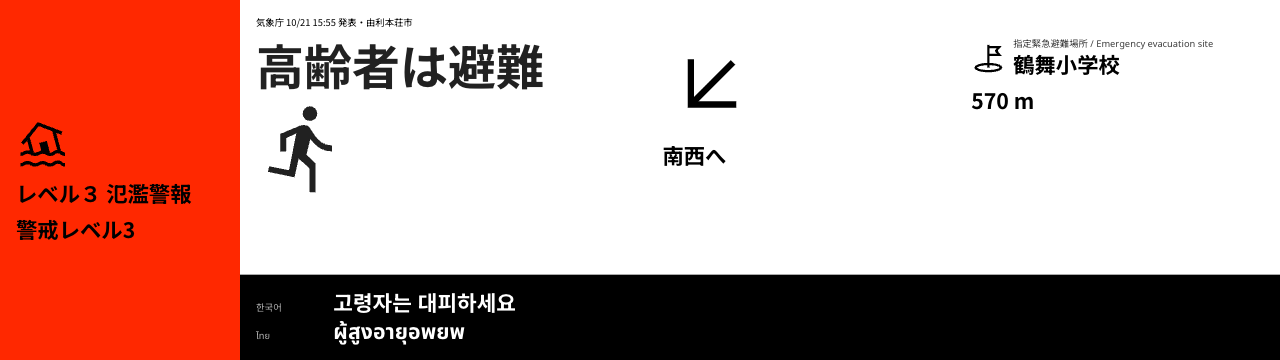
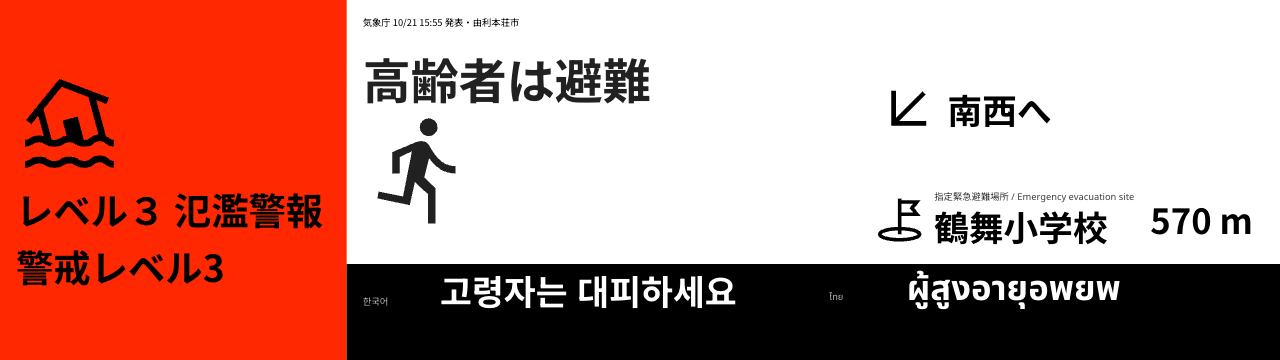
feat(app): blocks read as units, pictograms grow, 32:9 is drawn for its viewing distance
Following the owner's review of the measured layouts:
- Space between information blocks is one guide-text height (64), inside a
  block 16; direction is one block on every shape (arrow, then its words 16
  apart). A dropped cell's row and the gap before it collapse, so the space
  returns to the cells that remain.
- 32:9 hangs above walkways and is read from 8 to 15 m: its guide text is 104
  px (8 m by the same distance / 120 rule), the headline 112. The band is 1040
  wide with a 320 pictogram (75% of its height used, was 42%); direction and
  shelter stack in the right column; the language band shows its pair side by
  side; the action pictogram is 352.
- 9:16 action pictogram 300; 16:9 184 (the larger gaps took the rest); pillar
  body may reach 2.4 m so the gaps fit under the 800 hero pictogram.

16 bulletins x (5 shapes + 15 aspects) render with no overflow and no missing
required cell. docs/layout-tuning.png summarises the 32:9 and 9:16 changes.

diff --git a/app/layout/templates.ts b/app/layout/templates.ts
@@ -3,7 +3,8 @@ import { PILLAR } from './shapes'
 import { SHELTER_PICTOGRAM_PX } from './typography'
 
 const M = 48
-const G = 24
+// Space between information blocks is at least one guide-text height (64), so each block reads as a unit.
+const G = 64
 const BAND = 176
 // The source line is only the bulletin time and the municipality, so it sits close to the foot.
 const SOURCE_GAP = 8
@@ -12,7 +13,7 @@ export const STACKED_BAND_MIN_PX = 200
 
 const LANDSCAPE: ShapeLayout = {
   id: 'split',
-  columns: [M, '5fr', M, '4fr', M],
+  columns: [M, '5fr', G, '4fr', M],
   rows: [BAND, M, '1fr', G, '1fr', G, 'auto', SOURCE_GAP, 'auto', FOOT],
   areas: [
     'headline headline headline headline headline',
@@ -27,7 +28,7 @@ const LANDSCAPE: ShapeLayout = {
     '. . . . .',
   ],
   required: ['headline', 'action', 'direction', 'shelter', 'languages', 'source'],
-  pictogramPx: { headline: 112, action: 192, direction: 192, shelter: SHELTER_PICTOGRAM_PX },
+  pictogramPx: { headline: 112, action: 184, direction: 224, shelter: SHELTER_PICTOGRAM_PX },
 }
 
 const PORTRAIT: ShapeLayout = {
@@ -49,30 +50,42 @@ const PORTRAIT: ShapeLayout = {
     '. . .',
   ],
   required: ['headline', 'action', 'direction', 'shelter', 'languages', 'source'],
-  pictogramPx: { headline: 112, action: 256, direction: 192, shelter: SHELTER_PICTOGRAM_PX },
+  pictogramPx: { headline: 112, action: 300, direction: 224, shelter: SHELTER_PICTOGRAM_PX },
 }
+
+// 32:9 hangs above walkways and is read from 8 to 15 m, so its guide text follows the 8 m distance
+// (8000 / 120 mm at the 55" pitch ≈ 104 px) instead of the 5 m used by panels at eye level.
+const RIBBON_BAND = 1040
+const RIBBON_LANGUAGES = 288
+const RIBBON_TYPE = 1.625
+const RIBBON_HEADLINE_TYPE = 1.75
+const RIBBON_SCALE: Partial<Record<Role, number>> = { headline: RIBBON_HEADLINE_TYPE, direction: RIBBON_TYPE, shelter: RIBBON_TYPE, languages: RIBBON_TYPE }
 
 const RIBBON: ShapeLayout = {
   id: 'columns',
-  columns: [720, M, '4fr', M, '3fr', M, '3fr', M],
-  rows: [M, 'auto', G, '1fr', M, 256],
+  columns: [RIBBON_BAND, M, '5fr', G, '4fr', M],
+  rows: [M, 'auto', G, '1fr', G, 'auto', M, RIBBON_LANGUAGES],
   areas: [
-    'headline . . . . . . .',
-    'headline . source source source source source .',
-    'headline . . . . . . .',
-    'headline . action . direction . shelter .',
-    'headline . . . . . . .',
-    'headline languages languages languages languages languages languages languages',
+    'headline . . . . .',
+    'headline . source source source .',
+    'headline . . . . .',
+    'headline . action . direction .',
+    'headline . action . . .',
+    'headline . action . shelter .',
+    'headline . . . . .',
+    'headline languages languages languages languages languages',
   ],
   required: ['headline', 'action', 'direction', 'languages', 'source'],
-  pictogramPx: { headline: 160, action: 288, direction: 288, shelter: SHELTER_PICTOGRAM_PX },
+  pictogramPx: { headline: 320, action: 352, direction: 208, shelter: 160 },
   darkBand: ['languages'],
+  inline: ['shelter'],
+  typeScale: RIBBON_SCALE,
 }
 
 const RIBBON_WIDE_DIRECTION: ShapeLayout = {
   id: 'wide-direction',
-  columns: [720, M, '4fr', M, '6fr', M],
-  rows: [M, 'auto', G, '1fr', M, 256],
+  columns: [RIBBON_BAND, M, '4fr', G, '6fr', M],
+  rows: [M, 'auto', G, '1fr', M, RIBBON_LANGUAGES],
   areas: [
     'headline . . . . .',
     'headline . source source source .',
@@ -82,9 +95,10 @@ const RIBBON_WIDE_DIRECTION: ShapeLayout = {
     'headline shelter shelter languages languages languages',
   ],
   required: ['headline', 'action', 'direction', 'languages', 'source'],
-  pictogramPx: { headline: 160, action: 288, direction: 320, shelter: SHELTER_PICTOGRAM_PX },
+  pictogramPx: { headline: 320, action: 240, direction: 320, shelter: 160 },
   darkBand: ['shelter', 'languages'],
-  inline: ['direction', 'shelter'],
+  inline: ['shelter'],
+  typeScale: RIBBON_SCALE,
 }
 
 const SQUARE: ShapeLayout = {
@@ -135,8 +149,8 @@ const CLEAR_STACK: ShapeLayout = {
 
 const CLEAR_RIBBON: ShapeLayout = {
   id: 'clear-columns',
-  columns: [720, M, '1fr', M],
-  rows: [M, 'auto', G, '1fr', M, 256],
+  columns: [RIBBON_BAND, M, '1fr', M],
+  rows: [M, 'auto', G, '1fr', M, RIBBON_LANGUAGES],
   areas: [
     'headline . . .',
     'headline . source .',
@@ -146,8 +160,9 @@ const CLEAR_RIBBON: ShapeLayout = {
     'headline languages languages languages',
   ],
   required: ['headline', 'action', 'languages', 'source'],
-  pictogramPx: { headline: 160, action: 288 },
+  pictogramPx: { headline: 320, action: 288 },
   darkBand: ['languages'],
+  typeScale: RIBBON_SCALE,
 }
 
 const CLEAR_SQUARE: ShapeLayout = {
@@ -161,7 +176,7 @@ const CLEAR_SQUARE: ShapeLayout = {
 // screen drops shelter and direction and gives the whole body to the action.
 const SECURE_LANDSCAPE: ShapeLayout = { ...CLEAR_STACK, id: 'secure-stack', pictogramPx: { headline: 112, action: 320 } }
 const SECURE_PORTRAIT: ShapeLayout = { ...CLEAR_STACK, id: 'secure-stack', pictogramPx: { headline: 112, action: 480 } }
-const SECURE_RIBBON: ShapeLayout = { ...CLEAR_RIBBON, id: 'secure-columns', pictogramPx: { headline: 160, action: 384 } }
+const SECURE_RIBBON: ShapeLayout = { ...CLEAR_RIBBON, id: 'secure-columns', pictogramPx: { headline: 320, action: 384 } }
 const SECURE_SQUARE: ShapeLayout = { ...CLEAR_SQUARE, id: 'secure-square', pictogramPx: { headline: 112, action: 240 } }
 
 // 9:16 and 1:1 put the level label under the headline: the band is at least STACKED_BAND_MIN_PX
@@ -201,7 +216,7 @@ export const TEMPLATES: Partial<Record<TemplateId, TemplateDef>> = {
 // with the source runs round the foot of the column (0.40–0.75 m), and the top band and one large
 // action pictogram take the upper column. Rows are in design px, so metres are divided by the face scale.
 const PILLAR_EYE_LOW_M = 1.0
-const PILLAR_EYE_HIGH_M = 2.2
+const PILLAR_EYE_HIGH_M = 2.4
 const PILLAR_FOOT_BAND_TOP_M = 0.75
 const PILLAR_HERO_PX = 800
 const PILLAR_BODY_ORDER: Role[] = ['action', 'languages', 'direction', 'shelter']

diff --git a/app/layout/fit.ts b/app/layout/fit.ts
@@ -46,3 +46,22 @@ export function gridCss(layout: ShapeLayout) {
     gridTemplateAreas: layout.areas.map((row) => `"${row}"`).join(' '),
   }
 }
+
+// A dropped cell leaves an empty row and the block gap before it; both go, so the space returns to the
+// cells that remain. Names that also sit in other rows (a band or an action spanning rows) count as empty.
+export function collapseAbsent(layout: ShapeLayout, present: ReadonlySet<string>): ShapeLayout {
+  const rows = layout.areas.map((row) => row.split(/\s+/).map((name) => (name === '.' || present.has(name) ? name : '.')))
+  const spans = (name: string, except: Set<number>) => rows.some((names, i) => !except.has(i) && names.includes(name))
+  const removed = new Set<number>()
+  const isEmpty = (i: number) => rows[i]!.every((name) => name === '.' || spans(name, new Set([...removed, i])))
+  layout.areas.forEach((row, i) => {
+    const hadAbsent = row.split(/\s+/).some((name) => name !== '.' && !present.has(name))
+    if (!hadAbsent || !isEmpty(i)) return
+    removed.add(i)
+    if (i > 0 && !removed.has(i - 1) && isEmpty(i - 1)) removed.add(i - 1)
+  })
+  if (!removed.size) return { ...layout, areas: rows.map((names) => names.join(' ')) }
+  const kept = rows.filter((_, i) => !removed.has(i))
+  if ([...present].some((name) => rows.some((names) => names.includes(name)) && !kept.some((names) => names.includes(name)))) return layout
+  return { ...layout, rows: layout.rows.filter((_, i) => !removed.has(i)), areas: kept.map((names) => names.join(' ')) }
+}

diff --git a/app/app/components/EvacScreen.vue b/app/app/components/EvacScreen.vue
@@ -1,5 +1,5 @@
 <script setup lang="ts">
-import { gridCss, initialPlacement, missingRequired, nextOverflowVictim } from '~~/layout/fit'
+import { collapseAbsent, gridCss, initialPlacement, missingRequired, nextOverflowVictim } from '~~/layout/fit'
 import { frameStyle, languageStep, motionFrame } from '~~/layout/motion'
 import { CABINET_OFFICE_5, DARK_BAND, LANG_LABEL_OPACITY, PAGE_BACKGROUND, PAGE_INK, SHELTER_KIND_OPACITY, contrastRatio, inkOn, levelLabelFor, rgbCss } from '~~/layout/palette'
 import { SHAPES, designScale } from '~~/layout/shapes'
@@ -50,7 +50,7 @@ const heroCell = computed(() => (layout.value.hero ? placed.value.find((cell) =>
 const band = computed(() => CABINET_OFFICE_5[props.screen.alert.level])
 
 const rootStyle = computed(() => ({
-  ...gridCss(layout.value),
+  ...gridCss(collapseAbsent(layout.value, new Set([...placed.value.map((cell) => cell.role), ...(layout.value.hero ? ['hero'] : [])]))),
   ...(props.box ? { width: `${props.box.width}px`, height: `${props.box.height}px` } : {}),
   '--px': `${scale.value}px`,
   '--fs-action': TYPE_PX.action,
@@ -77,9 +77,10 @@ const languageStyle = computed(() =>
 )
 
 function cellStyle(cell: LayoutCell) {
-  if (!ready.value) return { gridArea: cell.role }
+  const base = { gridArea: cell.role, '--type-scale': layout.value.typeScale?.[cell.role] ?? 1 }
+  if (!ready.value) return base
   return {
-    gridArea: cell.role,
+    ...base,
     ...frameStyle(motionFrame(cell.motion, props.elapsedMs, props.reducedMotion ?? false)),
   }
 }

diff --git a/app/app/components/ScreenCell.vue b/app/app/components/ScreenCell.vue
@@ -17,7 +17,7 @@ const props = defineProps<{
 
 const rotationLangs = computed<LangKey[]>(() => LANGUAGE_ROTATION.filter((key) => props.cell.text[key]))
 const headlineStyle = computed(() =>
-  props.headlineScale && props.headlineScale !== 1 ? { fontSize: `calc(var(--fs-guide) * ${props.headlineScale} * var(--px))` } : undefined,
+  props.headlineScale && props.headlineScale !== 1 ? { fontSize: `calc(var(--fs-guide) * ${props.headlineScale} * var(--type-scale, 1) * var(--px))` } : undefined,
 )
 const languageGroups = computed<LangKey[][]>(() => {
   const langs = rotationLangs.value
@@ -158,7 +158,20 @@ p {
 .role-shelter {
   display: flex;
   flex-direction: column;
-  gap: calc(24 * var(--px));
+  gap: calc(16 * var(--px));
+}
+.role-direction {
+  flex-direction: row;
+  align-items: center;
+  gap: calc(16 * var(--px));
+}
+.shape-ribbon .lang-variant {
+  flex-direction: row;
+  gap: calc(96 * var(--px));
+}
+.shape-ribbon .lang-line {
+  flex: 1 1 0;
+  min-width: 0;
 }
 .action-sub,
 .shelter-name {

diff --git a/app/app/assets/screen.css b/app/app/assets/screen.css
@@ -87,7 +87,7 @@ body {
   font-weight: 700;
 }
 .t-guide {
-  font-size: calc(var(--fs-guide) * var(--px));
+  font-size: calc(var(--fs-guide) * var(--type-scale, 1) * var(--px));
   line-height: var(--lh-guide);
   font-weight: 700;
 }

diff --git a/app/layout/types.ts b/app/layout/types.ts
@@ -69,6 +69,7 @@ export interface ShapeLayout {
   inline?: Role[]
   hero?: { role: Role; px: number }
   bandRoles?: Role[]
+  typeScale?: Partial<Record<Role, number>>
 }
 
 export type TemplateDef = Record<PanelShape, ShapeLayout[]>
